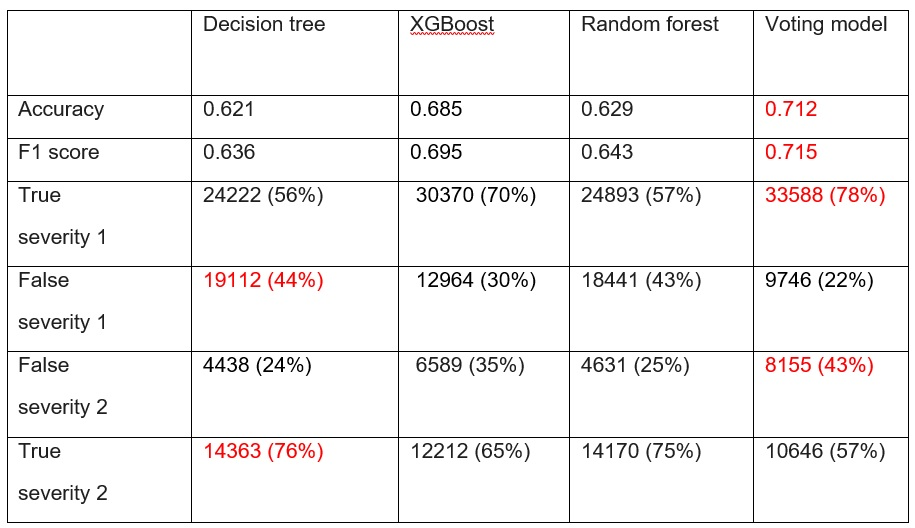
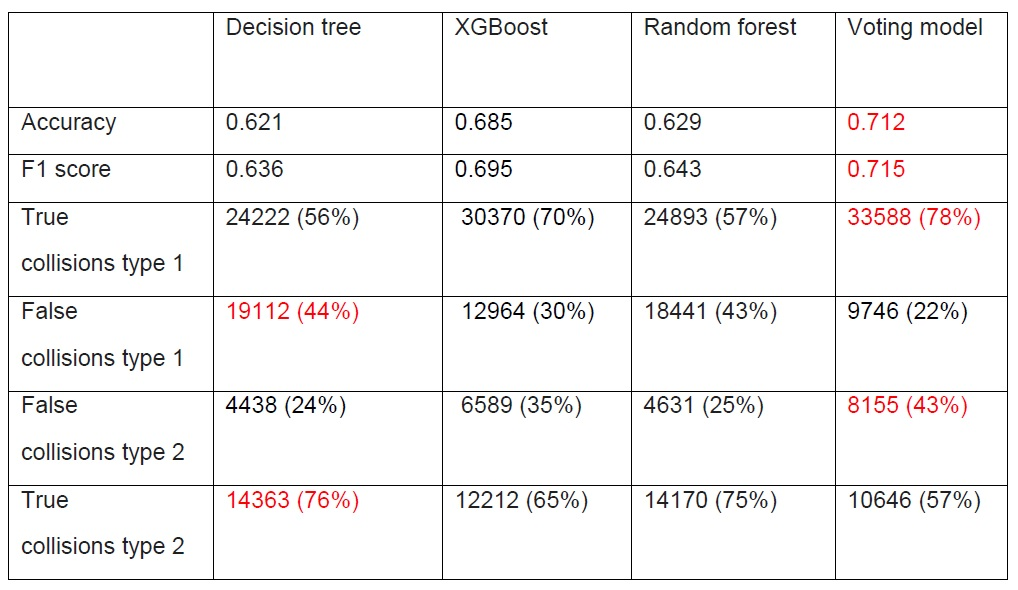
finishing up

Changed region(s): [[0.0, 0.0, 1.0, 1.0], [0.0, 0.7576, 0.1836, 0.7879]]

diff --git a/README.md b/README.md
@@ -2,8 +2,9 @@
 
 ## Introduction 
 ### Background
-The Seattle Police Department (SPD) provides road collisions records since 2004. The records describe the severity of each collision (0 property damage/ 1 personal injury) and additional information. 
-Preventing road collisions is a major concern for public authorities. Therefore, it is important for the SPD to accurately predict whatever a serious accident will occur given all available data. It is also important to identify the factors causing serious accidents, as these could be eliminated or mitigated before a collision occurs.
+The Seattle Police Department (SPD) provides road collisions records since 2004. The records describe the severity of each collision (0 property damage/1 personal injury) with additional information. 
+
+Preventing road collisions is a major concern for public authorities. Therefore, it is important to accurately predict whatever a serious accident will occur. It is also important to identify the factors causing serious accidents, as these could be eliminated or mitigated.
 
 ### Problem
 This project aims to predict the severity of a collision given other factors, such as the wheatear condition, the road condition, the number of vehicles involved, and the number of persons on the road.
@@ -15,26 +16,20 @@ A model predicting the severity of collisions can be used for a warning system. 
 
 ### Sources
 
-In this study, the SPD records from 2004 to 2020 were used. The data can be found [here](https://data-seattlecitygis.opendata.arcgis.com/). The description of each feature (metadata) can be found [here](https://www.seattle.gov/Documents/Departments/SDOT/GIS/Collisions_OD.pdf). The data source contains a mixture of categorical and continuous variables.
+In this study, the SPD records from 2004 to 2020 were used. The data can be found [here](https://data-seattlecitygis.opendata.arcgis.com/). The data source contains a mixture of categorical and continuous variables. The description of each feature (metadata) can be found [here](https://www.seattle.gov/Documents/Departments/SDOT/GIS/Collisions_OD.pdf).
 
 ### Feature selection
-The entire set was immediately divided into a train and test set. Decisions on feature selection and data cleaning were taken by analyzing exclusively the test set and were applied therafter on both train and test sets. This choice was taken to avoid the look-ahead bias. Table 1 shows a summary of the test set data.
+The entire set was immediately divided into a train and test set. Decisions on feature selection and data cleaning were taken by analyzing exclusively the test set and were applied thereafter on both sets, to avoid the look-ahead bias. Table 1 shows a summary of the train set.
 
 ![Tab1](figures/Fig1.jpg)
 
-[Table 1. Train set summary]
+[Table 1. A summary of the train set]
 
-Table 2 summarizes the decisions taken for selecting the features.
-
-First, the features identical to the target or containing the same information information were eliminated from the feature set.
-
-Second, some features are missing an appropriate description and have a large percentage of missing values. These features were dropped.
-
-Third, features containing administrative information or post-collision details were eliminated. Post-collision data were deemed not relavant for predicting feature collisions, because not available before the collision occours. 
-
-Fourth, the INCDATE feature was eliminated because the date of the collisin is already contained in the INCDTTM feature. 
-
-Fifth, the location feature was eliminated because contains an information similar to the X and Y GPS coordinates.
++ First, the features identical to the target or containing the same information were eliminated.
++ Second, some features are missing an appropriate description and have a large percentage of missing values. These features were dropped.
++ Third, features containing administrative information or post-collision details were eliminated. Post-collision data were considered not relevant for predicting feature collisions because they will not be available when predicting. 
++ Fourth, the INCDATE feature was eliminated because the collision date was already contained in the INCDTTM feature. 
++ Fifth, the location feature was eliminated because it contains information similar to the X and Y GPS coordinates.
 
 ![Tab2](figures/Fig2.jpg)
 
@@ -42,17 +37,17 @@ Fifth, the location feature was eliminated because contains an information simil
 
 ### Data cleaning
 
-After dropping the features, several other categorical features had a large ratio of missing values: INATTENTIONIND, PEDROWNOTGRNT, SPEEDING. These features contain only the value Y for "yes" and nan for "not a number". For them, it was speculated that nan corresponds to no (N) and not to a yes, as the SPD agent could have decided not to fill these fields when the condition was negative. All nans were converted to 0 and all Y to 1, transforming these three categorical features into numerical features. 
+Several other categorical features have a large ratio of missing values: INATTENTIONIND, PEDROWNOTGRNT, SPEEDING. These features contain only the value Y for "yes" and nan for "not a number". For them, it was speculated that a nan corresponds to "no" (N) and not to a "yes", as the SPD agent could have decided to not fill these fields in case of a negative condition. All nans were converted to 0 and all Y to 1, transforming these three categorical features into numerical features. 
 
-The UNDERINFL feature contains 4 values: N, 0, Y, 1. In this case, N was converted to 0 and Y to 1, transforming UNDERINFL into a numerical feature. For UNDERINFL, Y was not the only entry present in the original dataset, and nan entries were not assumed to indicate a negative condition.
+UNDERINFL contains 4 values: N, 0, Y, 1. In this case, N was converted to 0 and Y to 1, transforming UNDERINFL into a numerical. For UNDERINFL, Y was not the only valid value present in the original dataset, and nan entries were not assumed to indicate a negative condition.
 
-LIGHTCOND, ROADCOND, and WEATHER features already contain a value ‘Unknown’. For them, nan entries were converted to ‘Unknown’.
+LIGHTCOND, ROADCOND, and WEATHER already contain a value ‘Unknown’. For them, nan entries were converted to ‘Unknown’.
 
-The number of missing values in the JUNCTIONTYPE was reduced by matching the first record with a valid JUNCTIONTYPE and identical X and Y coordinates. This decreased the number of missing values for JUNCTIONTYPE from 3.2% to 1.3% in the train set and from 3.3% to 1.6% in the test set.
+Some of the JUNCTIONTYPE missing values were substituted with the valid values of records having the same X and Y coordinates, decreasing the number of missing JUNCTIONTYPE values from 3.2% to 1.3% in the train set and from 3.3% to 1.6% in the test set.
 
-As most predictive models only accept numerical values, the information of the INCDTTM feature was converted into 4 numerical features, namely the year, the month, the day of the week, and the hour. 
+As most predictive models only accept numerical values, the information of the time feature (INCDTTM) was converted into 4 numerical features, namely the year, the month, the day of the week, and the hour. 
 
-Box plots were used to detect extreme outliers for features with a large range of variation (Figure 1). The collisions involving up to 81 persons, in a lane segment greater than 525241 and a crosswalk number larger than 5239700 are clearly outliers and were eliminated. In total, only 3 records of the train set were dropped.
+Box plots were used to detect extreme outliers for features with a large range of variation (Figure 1). The collisions involving up to 81 persons, in a lane segment greater than 525241 and a crosswalk number larger than 5239700 are outliers and were eliminated. In total, only 3 records were dropped from the train set.
 
 ![Fig1](figures/Fig3.jpg)
 
@@ -68,23 +63,22 @@ Table 3 summarizes the train set after feature selection and data cleaning, and 
 
 ### Exploratory Data Analysis
 
-For each feature, the records in the train set were grouped by the target value (0/1) to assess if the mean group values were significantly different (t-test with a p-value <0.05). It was found that the mean group values were different, except for the month feature. For this reason, the month feature was dropped (Figure 2). This result was unexpected because severe accidents with personal injuries were expected to occur more frequently in fall or winter, when the wheater conditions can be worse.
+For each feature, the records in the train set were grouped by target value (0/1) to assess if the mean group values were significantly different from each other (t-test with a p-value <0.05). It was found that the mean group values were different, except for the month feature (Figure 2). This result was unexpected because severe accidents with personal injuries were expected to occur more frequently in fall or winter, with worse weather conditions.
 
 ![Fig2](figures/Fig5.jpg)
-[Figure 2. Bar chart for month feature grouped by severity code]
+[Figure 2. Bar chart for the month feature grouped by the severity code]
 
 
-As expected, collisions involving a pedestrian or a bicycle more frequently result in a personal injury compared to collisions with no pedestrian or bicycle involved (Figure 3 and 4). When forecasting the severity of a collision, it is important to take into account the presence of persons and bicycles on the road (such as at pedestrian of bicycle crossings).
+As expected, collisions involving a pedestrian or a bicycle more frequently result in a personal injury compared to collisions with no pedestrian or bicycle involved (Figures 3 and 4). When forecasting the severity of a collision, it will be important to take into account the presence of persons and bicycles on the road (e.g. at pedestrian crossings).
 
 ![Fig3](figures/Fig6.jpg)
-[Figure 3. Bar chart for PERSONCOUNT feature grouped by severity code]
+[Figure 3.  Bar chart for PERSONCOUNT feature (the number of persons involved in the collision) grouped by the severity code]
 
 
 ![Fig4](figures/Fig7.jpg)
-[Figure 4. Bar chart for PEDCYLCOUNT feature grouped by severity code]
+[Figure 4. Bar chart for PEDCYLCOUNT feature (the number of cyclists involved in the collision) grouped by the severity code]
 
-Before jumping into modeling, a correlation analysis was performed, to identify strongly correlated features (absolute correlation value > 0.9). If one feature is strongly correlated to another it can be dropped to reduce the dimensionality of the feature set. 
-The feature correlation matrix is shown in Figure 5. Only ADDRTYPE was found to be strongly correlated to JUNCTIONTYPE (-0.92). Since JUNCTIONTYPE had more missing values than ADDRTYPE in the initial dataset, the JUNCTIONTYPE feature was dropped.
+Before jumping into modeling, a correlation analysis was performed, to identify large correlations (absolute correlation value > 0.9). If a feature is strongly correlated to another it can be dropped to reduce the dimensionality of the feature set. The feature correlation matrix is shown in Figure 5. ADDRTYPE and JUNCTIONTYPE are strongly correlated (-0.92). JUNCTIONTYPE was dropped, having a larger amount of missing data in the original dataset.
 
 ![Fig5](figures/Fig8.jpg)
 
@@ -92,43 +86,42 @@ The feature correlation matrix is shown in Figure 5. Only ADDRTYPE was found to 
 
  ### Modelling
 
-The train set is strongly unbalanced: 69.8% of the records have a target value equal to 1. The weights were set inversely proportional to class frequencies. This choiche mitigates the bias in predicting only the most frequent class, with the aim of maximizing model accuracy.
+The train set is strongly unbalanced: 69.8% of the records have a target value equal to 1. The weights were set inversely proportional to class frequencies to avoid fitting only the most frequent class (severity 1). Before modeling, the feature values in the train and test set were standardized with the means and standard deviations of the train set.
 
-Before modeling, the feature values in the train and test set were also scaled using the feature's train set mean and standard deviation.
+Four models were fitted and evaluated on the test set:
 
-Four models were fitted to the train set and compared using the test set:
++ A Decision tree classifier: the node splitting criterion (Gini or entropy) and the tree max depth were tuned.
++ An XGBoost classifier: the gamma parameter and the tree max depth were tuned.
++ A Random forest:  the node splitting criterion (Gini or entropy) and the tree max depth were tuned.
++ A soft voting classifier: built using the probabilities computed from the best models above.
 
-* A Decision tree classifier: the node splitting criterion (Gini or entropy) and the tree max depth were tuned.
-* A XGBoost classifier:  the gamma parameter and the tree max depth were tuned.
-* A Random forest:  the node splitting criterion (Gini or entropy) and  the tree max depth were tuned.
-* A Soft voting classifier: build using the probabilities computed from the best models above.
-
-The parameters were tuned using the average negative log loss score computed with a 3 fold cross-validation method on the train data. The logarithmic loss was used as score function because it puts more emphasis on probabilities than other metrics. The optuna hyperparameter optimization framework was used to automate the search of the best hyperparameters.
+The parameters were tuned using the average negative log loss score computed from a 3 fold cross-validation. The logarithmic loss was used as a score function because it puts more emphasis on probabilities than other metrics. The Optuna hyperparameter optimization framework was used to automate the search of the best hyperparameters.
 
 ## Results
 
-Table 4 shows the metrics on the test set for each model. In this case, it is more important to correctly predict a collision causing a personal injury that correctly predict a collision causing a property damage. The decision tree classifier correctly predicts more accurately collisions with a type 2 severity (76% of the validation set).
+Table 4 shows the metrics on the test set for each model. In this study, it is more important to correctly predict a collision causing a personal injury than one causing property damage. Under this constrain, the decision tree classifier is the best candidate, with an accuracy of 76% for type 2 collisions.
 
-Figure 5 shows the importance of each feature for the decision tree classifier. As can be seen, the features indicating the presence of persons on the road (PEDCOUNT, PERSONCOUNT, PEDCYLCOUNT) have the largest importance in determining the type of collision, followed by the address type, the weather condition, and the number of vehicles involved. 
+Figure 6 shows the importance of each feature for the decision tree classifier. As can be seen, the features indicating the presence of persons on the road have the largest importance in determining the type of collision, followed by the address type, the weather condition, and the number of vehicles involved. 
 
 ![Tab4](figures/Fig9.jpg)
 
-[Table 4. Model metrics]
+[Table 4. Model metrics computed on the validation set. The largest values are in red]
 
 ![Tab4](figures/Fig10.jpg)
-[Figure 5. Decision tree feature importances]
+[Figure 6. Decision tree feature importances]
 
  ## Discussion
 
-From the results, it is clear that models with high accuracy on severity 1 collisions have a lower accuracy on severity 2 collisions. The voting model is the best model for severity 1 collisions and has the best accuracy and f1 score, but has a lower accuracy for severity 2 collisions. The decision tree has the opposite behavior.  
+From the results, it is clear that models with high accuracy on type 1 collisions have lower accuracy on type 2 collisions. The voting model is the best model for type 1 collisions and has the best accuracy and f1 scores, but has a lower accuracy for type 2 collisions. The decision tree has the opposite behavior.  
 
-The most important factor determining severity 2 collision is the presence of persons on the road (PEDCOUNT, PERSONCOUNT, PEDCYLCOUNT). This result makes sense and was anticipated in the exploratory data analysis.
+The most important factor determining type 2 collision is the presence of persons on the road. This result makes sense and was anticipated in the exploratory data analysis.
 
 ## Conclusions
 
-In this study, the  Seattle Police Department collisions records were analyzed to build a model that predicts collision types. The predictive model can be used to issue a warning to the drivers when a serious accident is predicted.
+In this study, the  Seattle Police Department collisions records were analyzed to build a predictive model of collision types. The predictive model can be used to issue a warning to drivers when a serious accident is predicted.
 
-After data cleaning and selecting only the feature describing the pre-collision conditions, a decision tree classifier was found to be able to predict collisions causing personal injuries with 76% accuracy. Collisions involving personal injuries are more likely to happen in areas with more people on the road (such as pedestrian crossings). Road signs issuing warnings could be installed in these areas first, and then monitor the effectiveness in reducing severe collisions.  
+After data cleaning and selection, a decision tree classifier was found to be able to predict collisions causing personal injuries with 76% accuracy. Collisions involving personal injuries are more likely to happen in areas with more people on the road (such as pedestrian crossings). Road signs issuing warnings could be installed in these areas first.
 
-The data set was strongly unbalanced towards collisions with severity code 1 (property damage). Additional records with severity code 2 (personal injuries) would help to improve the model performance for this type of accidents.
-For some features with a large number of missing values the description was missing. In these cases, a description would have been useful during the feature selection process.
+The data set was strongly unbalanced towards collisions with severity code 1 (property damage). Additional records with severity code 2 (personal injuries) would help to improve the model performance for this type of accident.
+
+For some features with a large number of missing values, the description was missing. In these cases, a description would have been useful during the feature selection process.
